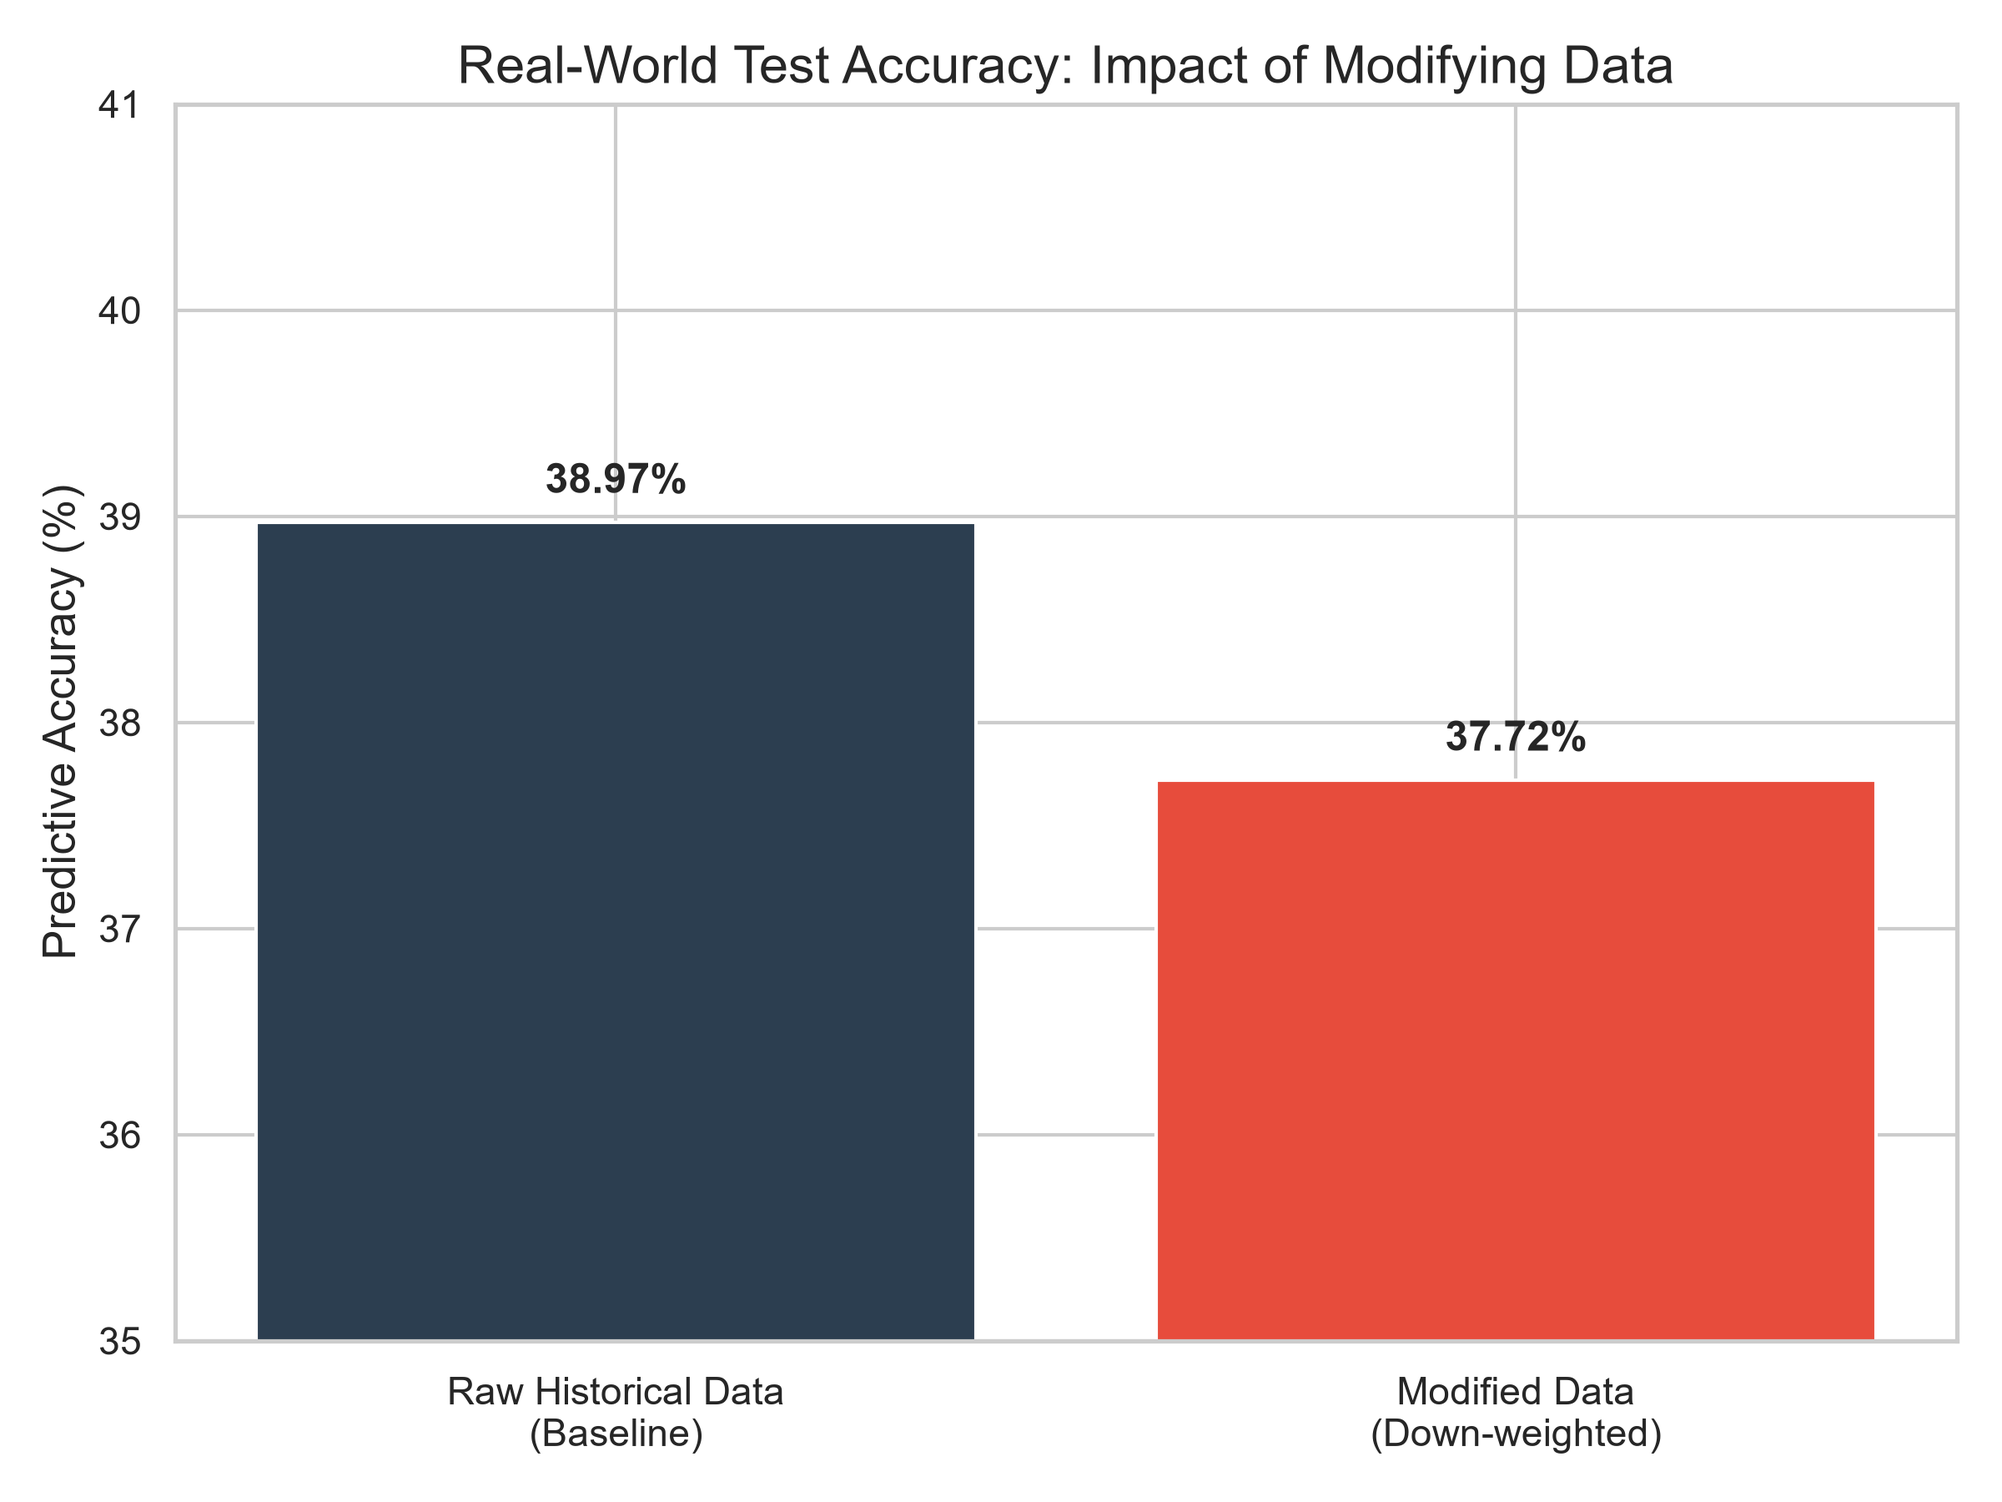
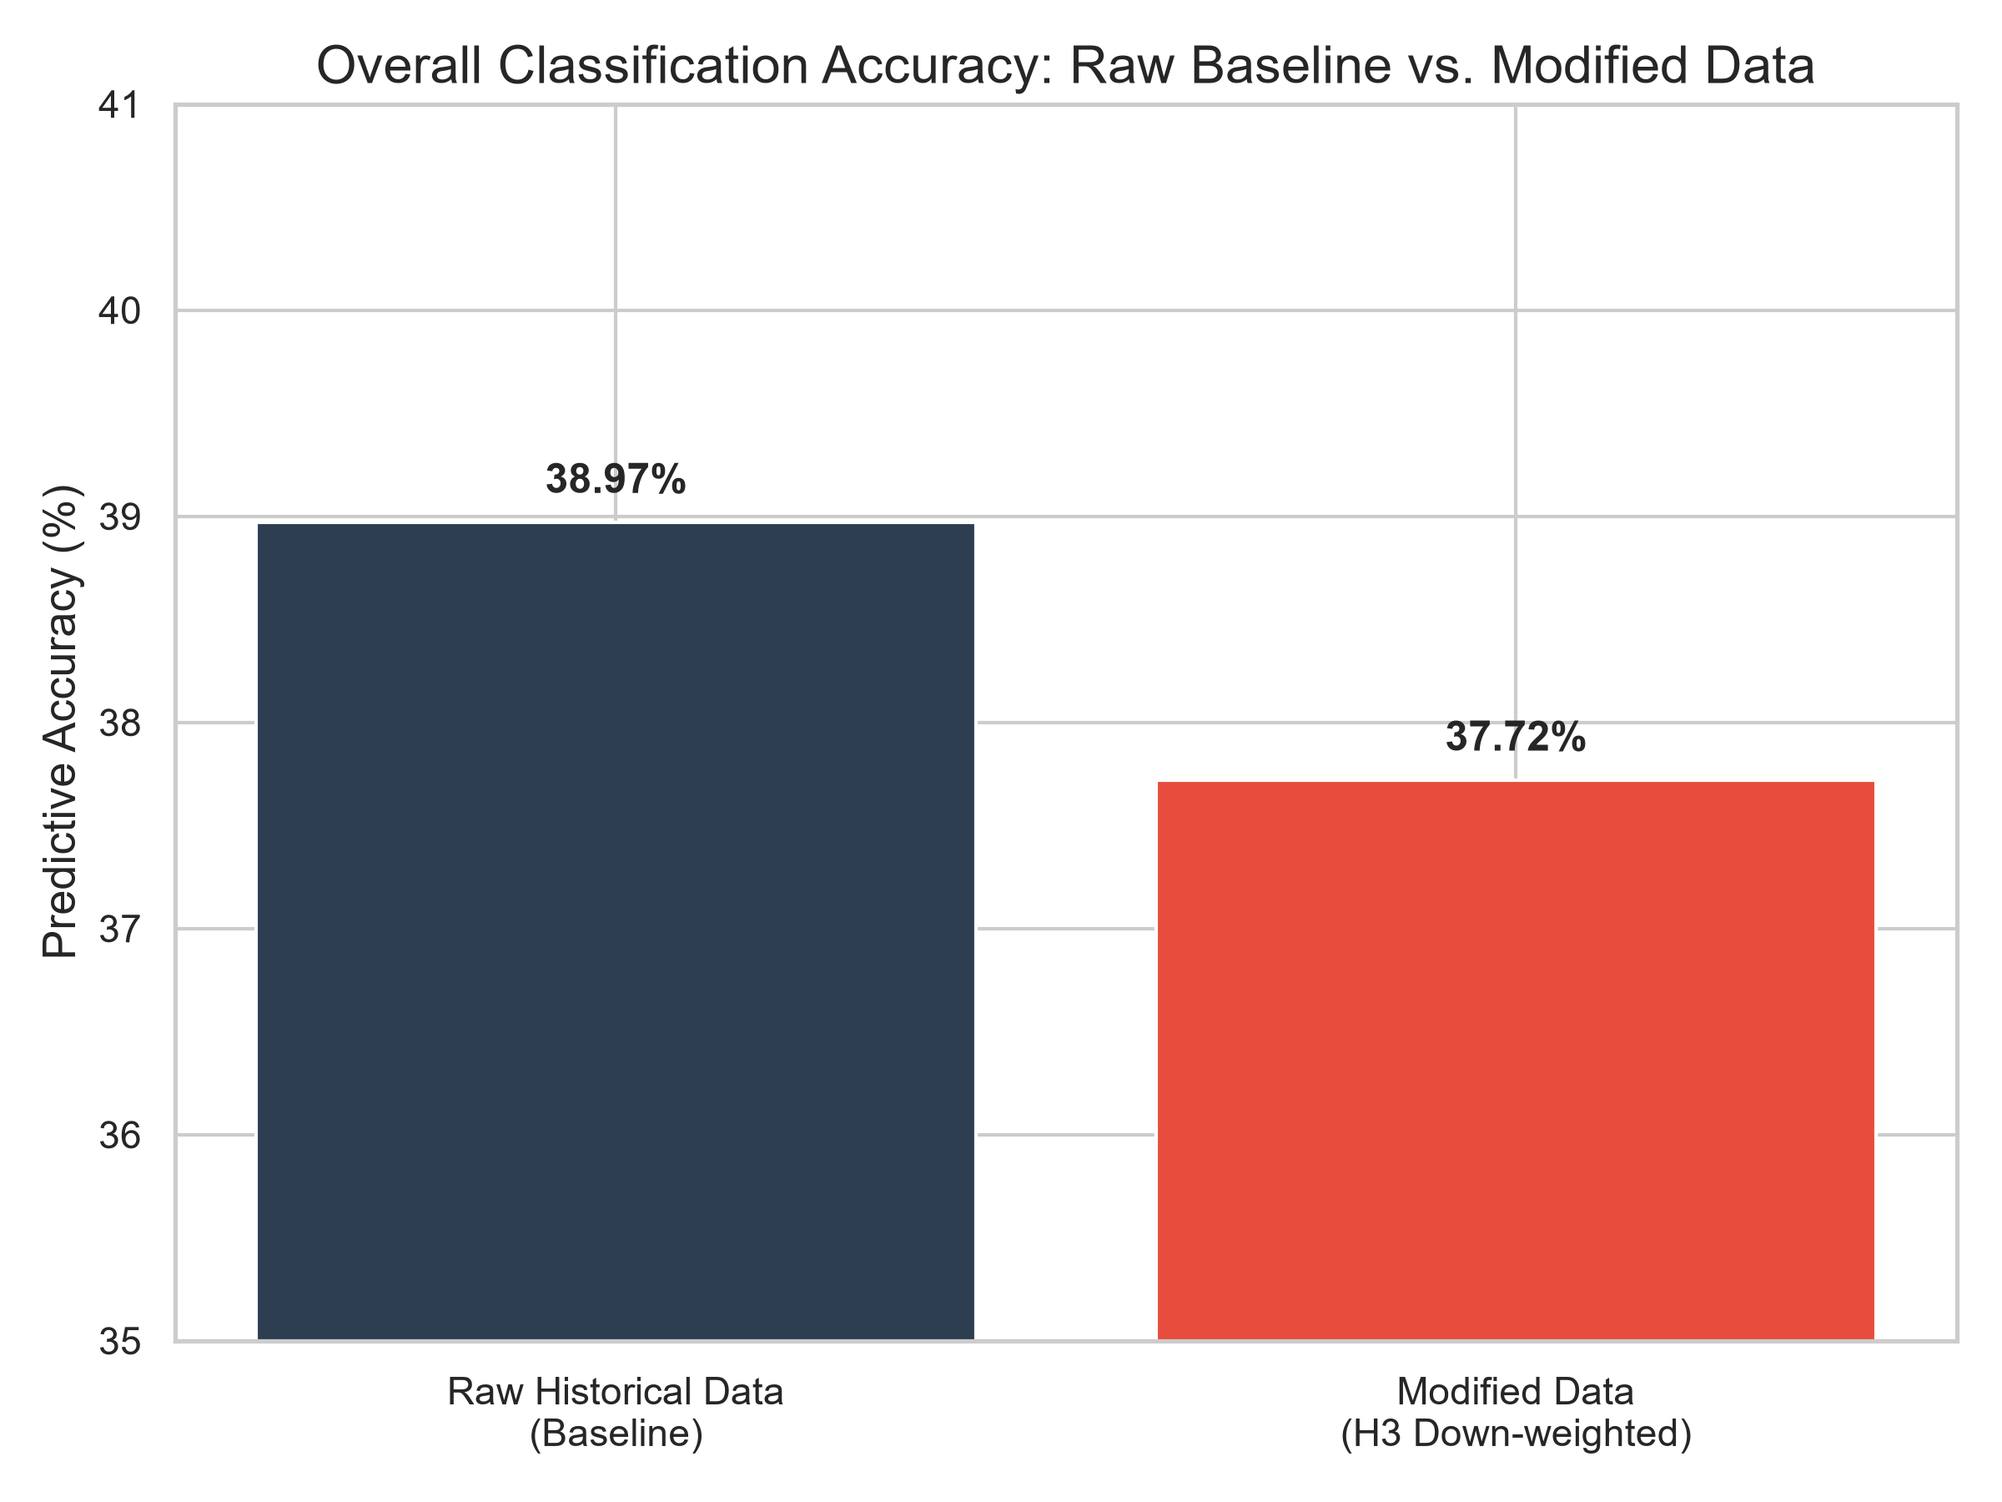
fixes for final presentation

Changed region(s): [[0.1562, 0.0311, 0.9062, 0.0622], [0.6562, 0.9333, 0.8438, 0.9644]]

diff --git a/app/static/js/batch.js b/app/static/js/batch.js
@@ -91,6 +91,11 @@ document.addEventListener("DOMContentLoaded", () => {
 
     const startBatch = async (descriptions) => {
         isCancelled = false;
+        
+        // Reset the button state
+        cancelBtn.textContent = "Cancel Process";
+        cancelBtn.disabled = false;
+        
         batchData = [];
         resultsArea.classList.add("d-none");
         progressArea.classList.remove("d-none");
@@ -140,7 +145,7 @@ document.addEventListener("DOMContentLoaded", () => {
         }
 
         // Handle cancellation
-        if (isCancelled) {
+        if (isCancelled && processed < total) {
             for (let i = processed; i < total; i++) {
                 batchData.push({ row: i + 1, text: descriptions[i], status: "not_processed", data: null });
             }
@@ -152,6 +157,8 @@ document.addEventListener("DOMContentLoaded", () => {
 
     cancelBtn.addEventListener("click", () => {
         isCancelled = true;
+        cancelBtn.textContent = "Cancelling...";
+        cancelBtn.disabled = true;
     });
 
     const renderBatchResults = () => {
@@ -160,7 +167,14 @@ document.addEventListener("DOMContentLoaded", () => {
         const total = batchData.length;
         const inScopeData = batchData.filter(d => d.data && d.data.status === "success");
         const inScope = inScopeData.length;
-        const errors = batchData.filter(d => d.status === "error" || d.status === "empty" || d.status === "too_long").length;
+        // const errors = batchData.filter(d => d.status === "error" || d.status === "empty" || d.status === "too_long").length;
+        const fails = batchData.filter(d => 
+            d.status === "error" || 
+            d.status === "empty" || 
+            d.status === "too_long" || 
+            (d.data && d.data.status === "out_of_scope")
+        ).length;
+
         const needVerify = inScopeData.filter(d => d.data.verification_required).length;
         const flaggedVague = inScopeData.filter(d => d.data.retrieval && d.data.retrieval.is_vague).length;
 
@@ -177,7 +191,7 @@ document.addEventListener("DOMContentLoaded", () => {
         // Calculate health bar percentages (based on total rows)
         const pctOk = total === 0 ? 0 : Math.round(((inScope - needVerify) / total) * 100);
         const pctVerify = total === 0 ? 0 : Math.round((needVerify / total) * 100);
-        const pctErr = total === 0 ? 0 : Math.round((errors / total) * 100);
+        const pctFail = total === 0 ? 0 : Math.round((fails / total) * 100);
 
         // 1. Render Clean SaaS-Style KPI Summary
         summaryStats.innerHTML = `
@@ -198,16 +212,16 @@ document.addEventListener("DOMContentLoaded", () => {
                     <div class="text-muted fw-bold text-uppercase mb-1" style="font-size: 0.7rem; letter-spacing: 1px;">Vague</div>
                     <div class="fs-3" style="color: #d97706;">${flaggedVague}</div>
                 </div>
-                <div class="col">
-                    <div class="text-muted fw-bold text-uppercase mb-1" style="font-size: 0.7rem; letter-spacing: 1px;">Errors</div>
-                    <div class="fs-3" style="color: #963F3F;">${errors}</div>
+                <div class="col-6 col-md">
+                    <div class="text-muted fw-bold text-uppercase mb-1" style="font-size: 0.7rem; letter-spacing: 1px;">Fail</div>
+                    <div style="font-size: 2.5rem; font-weight: 300; line-height: 1; color: #963F3F;">${fails}</div>
                 </div>
             </div>
 
             <div class="w-100 d-flex rounded-pill overflow-hidden mb-2" style="height: 6px; background-color: #e2e8f0;">
                 <div style="width: ${pctOk}%; background-color: var(--color-primary); transition: width 1s ease;"></div>
                 <div style="width: ${pctVerify}%; background-color: #D4AF37; transition: width 1s ease;"></div>
-                <div style="width: ${pctErr}%; background-color: #963F3F; transition: width 1s ease;"></div>
+                <div style="width: ${pctFail}%; background-color: #963F3F; transition: width 1s ease;"></div>
             </div>
 
             <!-- Diagnostics String (Shifted to Left) -->
@@ -325,9 +339,9 @@ document.addEventListener("DOMContentLoaded", () => {
             "chapter_code", "chapter_confidence",
             "heading_code", "heading_confidence",
             "subheading_code", "subheading_confidence",
-            "line_code", "line_confidence",
+            "ahtn_subheading_code", "ahtn_subheading_confidence",
             "deepest_confident_level", "verification_required",
-            "line_candidates", "vagueness_flag",
+            "ahtn_candidates", "vagueness_flag",
             "retrieval_top_code_L4", "retrieval_split_notice",
             "model_version", "run_date"
         ];

diff --git a/app/templates/classifier.html b/app/templates/classifier.html
@@ -118,7 +118,7 @@
                                     <th class="py-3">Chapter</th>
                                     <th class="py-3">Heading</th>
                                     <th class="py-3">Subheading</th>
-                                    <th class="py-3">Tariff Line</th>
+                                    <th class="py-3">AHTN Subheading</th>
                                     <th class="py-3">Verify</th>
                                     <th class="py-3 pe-2">Details</th>
                                 </tr>
@@ -181,7 +181,7 @@
                             <li><strong>chapter:</strong> Predicted 2-digit HS chapter code and its confidence score.</li>
                             <li><strong>heading:</strong> Predicted 4-digit HS heading code and its confidence score.</li>
                             <li><strong>subheading:</strong> Predicted 6-digit HS subheading code and its confidence score.</li>
-                            <li><strong>line:</strong> Predicted 8-digit AHTN tariff line code and its confidence score.</li>
+                            <li><strong>AHTN subheading</strong> Predicted 8-digit AHTN subheading code and its confidence score.</li>
                             <li><strong>deepest_confident_level:</strong> Deepest hierarchical level at which the model meets the required confidence threshold.</li>
                         </ul>
 
@@ -191,7 +191,7 @@
                         </h6>
                         <ul class="mb-4">
                             <li><strong>verification_required:</strong> Indicates whether the classification requires human review.</li>
-                            <li><strong>line_candidates:</strong> Alternative tariff line codes identified by the model.</li>
+                            <li><strong>ahtn_candidates:</strong> Alternative AHTN subheading codes identified by the model.</li>
                         </ul>
 
                         <!-- 4. Retrieval Diagnostics -->

diff --git a/app/templates/guide.html b/app/templates/guide.html
@@ -63,7 +63,7 @@
                         <span class="badge bg-primary-custom me-3 py-2 px-3 fs-6">8471.30.20</span>
                         <h5 class="fw-bold mb-0" style="color: var(--color-primary);">8-Digit AHTN Subheading</h5>
                     </div>
-                    <p class="text-muted mb-0">The highly specific tariff line adopted strictly within ASEAN and the Philippines, determining the exact duty rate.</p>
+                    <p class="text-muted mb-0">The highly specific AHTN subheading adopted strictly within ASEAN and the Philippines, determining the exact duty rate.</p>
                 </div>
             </div>
         </div>
@@ -145,7 +145,7 @@
             <div class="col-md-6 col-lg-4">
                 <div class="result-card h-100">
                     <h5 class="fw-bold" style="color: var(--color-primary);">Deepest Confident Level</h5>
-                    <p class="text-muted mb-0 mt-2">A banner that tells you exactly how far down the hierarchy the model trusts its prediction before requiring your human judgment.</p>
+                    <p class="text-muted mb-0 mt-2">A banner that tells you exactly how far down the hierarchy the model trusts its prediction before strictly requiring your human judgment.</p>
                 </div>
             </div>
             <div class="col-md-6 col-lg-4">

diff --git a/app/static/js/classifier.js b/app/static/js/classifier.js
@@ -297,9 +297,9 @@ document.addEventListener("DOMContentLoaded", () => {
                                 
                                 <div class="text-muted opacity-25 d-none d-md-block">━━━━</div>
                                 
-                                <!-- Tariff Line -->
+                                <!-- AHTN Subheading -->
                                 <div class="px-2 px-md-3">
-                                    <div class="text-muted small fw-bold" style="font-size:0.65rem; letter-spacing:1px;">TARIFF LINE</div>
+                                    <div class="text-muted small fw-bold" style="font-size:0.65rem; letter-spacing:1px;">AHTN SUBHEADING</div>
                                     <div class="fw-bold text-dark fs-5 my-1">${formatCode(code, 8)}</div>
                                     ${getBadge(bands["8"], 8)}
                                 </div>

diff --git a/app/templates/about.html b/app/templates/about.html
@@ -23,7 +23,7 @@
                         </div>
                         <h2 class="h4 fw-bold mb-3" style="color: var(--color-primary);">Smart Suggestions</h2>
                         <p class="text-muted mb-0" style="font-size: 1rem; line-height: 1.6;">
-                            Suggests the best matching codes from 2-digit (Chapter), 4-digit (Heading), 6-digit (Subheading), to 8-digit (AHTN) based on your product description.
+                            Suggests the best matching codes from 2-digit (Chapter), 4-digit (Heading), 6-digit (Subheading), to 8-digit (AHTN Subheading) based on your product description.
                         </p>
                     </div>
                 </div>

diff --git a/app/templates/base.html b/app/templates/base.html
@@ -22,7 +22,7 @@
                 <div class="navbar-nav ms-auto">
                     <a class="nav-link {% if request.path == '/' %}active fw-bold{% endif %}" href="/">Classifier</a>
                     <a class="nav-link {% if request.path == '/about' %}active fw-bold{% endif %}" href="/about">About</a>
-                    <a class="nav-link {% if request.path == '/guide' %}active fw-bold{% endif %}" href="/guide">Help</a>
+                    <a class="nav-link {% if request.path == '/guide' %}active fw-bold{% endif %}" href="/guide">Guide</a>
                 </div>
             </div>
         </div>

diff --git a/src/hsclf/pipeline.py b/src/hsclf/pipeline.py
@@ -46,8 +46,8 @@ class HSPipeline:
         self.retrieval_engine = RetrievalEngine()
 
         self.messages = {
-            8: "Confident down to the tariff line (8-digit). Please still verify before declaring.",
-            6: "For Human Verification: Confident down to the subheading (6-digit). Please verify the tariff line.",
+            8: "Confident down to the AHTN subheading (8-digit). Please still verify before declaring.",
+            6: "For Human Verification: Confident down to the subheading (6-digit). Please verify the AHTN subheading.",
             4: "For Human Verification: Confident down to the heading (4-digit). Please verify the rest.",
             2: "For Human Verification: Confident down to the chapter (2-digit). Please verify the rest.",
             None: "Needs human verification at every level."
@@ -105,19 +105,40 @@ class HSPipeline:
         deepest = None
         bands_out = {}
         
-        for lvl in (8, 6, 4, 2):
+        # Track the previous (higher) level's band to enforce the hierarchy rule
+        prev_band_rank = 3 # 3 = High, 2 = Medium, 1 = Low
+        
+        for lvl in (2, 4, 6, 8):
             p = confidences[lvl]
+            
+            # 1. Get the raw band based on the threshold
             if p >= self.bands[lvl]["high"]:
-                band = "High"
+                raw_band = "High"
+                raw_rank = 3
             elif p >= self.bands[lvl]["med"]:
-                band = "Medium"
+                raw_band = "Medium"
+                raw_rank = 2
             else:
-                band = "Low"
+                raw_band = "Low"
+                raw_rank = 1
                 
-            bands_out[lvl] = band
-            if deepest is None and band != "Low":
+            # 2. Apply the Monotonic Rule: A child cannot be better than its parent
+            final_rank = min(raw_rank, prev_band_rank)
+            
+            # 3. Map the rank back to the string band
+            if final_rank == 3:
+                final_band = "High"
+            elif final_rank == 2:
+                final_band = "Medium"
+            else:
+                final_band = "Low"
+                
+            bands_out[lvl] = final_band
+            prev_band_rank = final_rank 
+            
+            if final_band != "Low":
                 deepest = lvl
-                
+
         verification_required = (deepest != 8)
         ui_message = self.messages[deepest]
 
@@ -160,20 +181,22 @@ if __name__ == "__main__":
 
     test_cases = [
         # In-Scope (Should Pass)
-        "apple macbook pro laptop computer",  
-        "steel pipes",                        
-        "machine parts", 
-        "PART OF 1 CASE  - YAMAHA - CAP, CLEANER CASE 1 - 10 PCS",
-        "2PCE OIL PUMP ASSY",
+        # "apple macbook pro laptop computer",  
+        # "steel pipes",                        
+        # "machine parts", 
+        # "PART OF 1 CASE  - YAMAHA - CAP, CLEANER CASE 1 - 10 PCS",
+        # "2PCE OIL PUMP ASSY",
+        "inline fuel filter",
+        "stainless steel kitchen sink"
         
-        # Pure Garbage (Should Fail)
-        "asdfghjkl",                          
-        "as per invoice",
+        # # Pure Garbage (Should Fail)
+        # "asdfghjkl",                          
+        # "as per invoice",
         
-        # True Out-of-Scope (Should Fail - Not in Chapters 39, 73, 84, 85, 87)
-        "fresh mangoes",
-        "men's cotton t-shirts",
-        "wooden dining chair"
+        # # True Out-of-Scope (Should Fail - Not in Chapters 39, 73, 84, 85, 87)
+        # "fresh mangoes",
+        # "men's cotton t-shirts",
+        # "wooden dining chair"
     ]
     
     for text in test_cases:

diff --git a/scripts/track_d/d6_6_figures.py b/scripts/track_d/d6_6_figures.py
@@ -15,11 +15,11 @@ def plot_test_accuracy(df, out_dir):
     h3_rate = overall[overall['model'] == 'main_h3']['rate'].values[0] * 100
 
     fig, ax = plt.subplots(figsize=(8, 6))
-    bars = ax.bar(['Raw Historical Data\n(Baseline)', 'Modified Data\n(Down-weighted)'], 
+    bars = ax.bar(['Raw Historical Data\n(Baseline)', 'Modified Data\n(H3 Down-weighted)'], 
                   [main_rate, h3_rate], color=['#2c3e50', '#e74c3c'])
     
     ax.set_ylabel('Predictive Accuracy (%)')
-    ax.set_title('Real-World Test Accuracy: Impact of Modifying Data')
+    ax.set_title('Overall Classification Accuracy: Raw Baseline vs. Modified Data')
     ax.set_ylim(35, 41)
     
     for bar in bars:
@@ -35,14 +35,14 @@ def plot_conflict_splits(df, out_dir):
     splits = df[(df['set'].isin(['conflict_prone', 'consistent'])) & (df['level'] == 8) & (df['metric'] == 'M2_top1')].copy()
     splits['rate'] = splits['rate'] * 100
     splits['set'] = splits['set'].map({'conflict_prone': 'Products with Past\nLabel Conflicts', 'consistent': 'Products with\nConsistent Labels'})
-    splits['model'] = splits['model'].map({'main': 'Raw Historical Data', 'main_h3': 'Modified Data (Down-weighted)'})
+    splits['model'] = splits['model'].map({'main': 'Raw Historical Data', 'main_h3': 'Modified Data (H3 Down-weighted)'})
 
     fig, ax = plt.subplots(figsize=(9, 6))
     sns.barplot(data=splits, x='set', y='rate', hue='model', palette=['#2c3e50', '#e74c3c'], ax=ax)
     
     ax.set_ylabel('Predictive Accuracy (%)')
     ax.set_xlabel('Product History Type')
-    ax.set_title('Model Performance: Conflict-Prone vs. Consistent Data')
+    ax.set_title('Model Performance on Conflicting vs. Consistent Declarations')
     ax.set_ylim(35, 45)
     
     for container in ax.containers:
